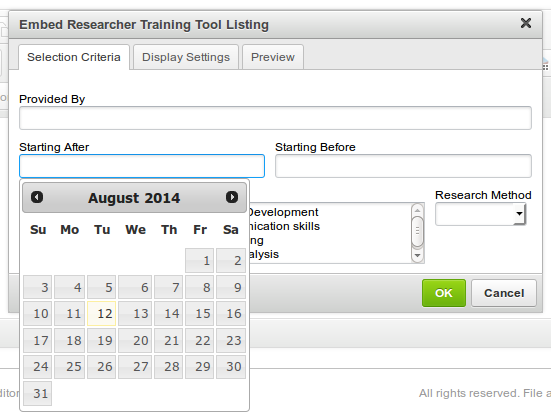
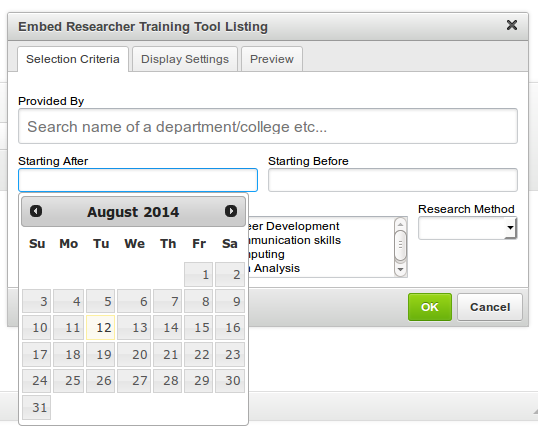
Finish researcher-training-tool documentation

Changed region(s): [[0.0, 0.0, 1.0, 0.9928], [0.7435, 0.9308, 1.0, 0.9618]]

diff --git a/researcher-training-tool.html b/researcher-training-tool.html
@@ -16,42 +16,59 @@
         A dialog will appear, giving you the full configuration options for the
         training tool.
       </p>
-      <p><img src="images/researcher-training-tool/selection-criteria.png"/></p>
       <ul>
         <li>
           <h3>Selection Criteria</h3>
+          <p><img src="images/researcher-training-tool/show-selection-criteria.png"/></p>
           <ul>
             <li>
-              <strong>Provided By</strong>: 
+              <strong>Provided By</strong>: search for the department providing
+              the course. Suggestions will appear as you type in the field.
+              Click the correct result to ensure that the correct value is
+              given.
+              <p><img src="images/researcher-training-tool/show-provided-by.png"/></p>
             </li>
             <li>
-              <strong>Starting After/Before</strong>: 
+              <strong>Starting After/Before</strong>: select a range over which
+              the courses would be available. Leave these fields empty to show
+              courses from all time.
+              <p><img src="images/researcher-training-tool/show-datepicker.png"/></p>
             </li>
             <li>
-              <strong>Eligibility</strong>: 
+              <strong>Eligibility</strong>: select who the course will be
+              available to: Staff Only, University Members or the Public. To
+              select multiple fields, hold CTRL (or command for Mac users)
+              while selecting options.
             </li>
             <li>
-              <strong>Skill</strong>: 
+              <strong>Skill</strong>: select an area of expertise that the
+              course asks for. Again, you can select multiple fields by holding
+              CTRL (or command).
             </li>
             <li>
-              <strong>Research Method</strong>: 
+              <strong>Research Method</strong>: choose the type of research
+              (if applicable) from either Quantitative or Qualitative.
             </li>
           </ul>
         </li>
         <li>
           <h3>Display Settings</h3>
+          <p><img src="images/researcher-training-tool/show-display-settings.png"/></p>
           <ul>
             <li>
-              <strong>Title</strong>: 
+              <strong>Title</strong>: title shown above the results table.
             </li>
             <li>
-              <strong>Columns to display</strong>: 
+              <strong>Columns to display</strong>: select which columns should
+              be available on the output table. You may select multiple fields.
             </li>
             <li>
-              <strong>Default dates view</strong>: 
+              <strong>Default dates view</strong>: select whether or not
+              (by default) dates are shwon with the results.
             </li>
             <li>
-              <strong>Show without dates link</strong>: 
+              <strong>Show without dates link</strong>: pick whether or not
+              the dates link is shown.
             </li>
           </ul>
         </li>
@@ -59,6 +76,7 @@
       <p>
         Click the Preview tab to see how the widget will be output on the page.
       </p>
+      <p><img src="images/researcher-training-tool/show-preview.png"/></p>
     </li>
     <li>
       <p>
